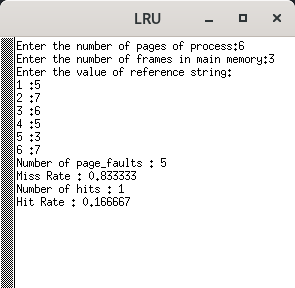
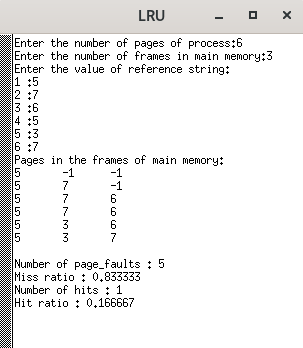
LRU

Changed region(s): [[0.0, 0.0, 1.0, 1.0], [0.4881, 0.7188, 0.5492, 0.7812], [0.2746, 0.25, 0.3661, 0.2812]]

diff --git a/LRU_page_replacement_algorithm/LRU.c b/LRU_page_replacement_algorithm/LRU.c
@@ -76,9 +76,9 @@ int main()
   printf("Pages in the frames of main memory:\n");
   int page_faults=LRU(pages,n_pages,n_frames);
   printf("\nNumber of page_faults : %d",page_faults);
-  float missrate=(float)page_faults/n_pages;
-  printf("\nMiss Rate : %f",missrate);
+  float missratio=(float)page_faults/n_pages;
+  printf("\nMiss ratio : %f",missratio);
   printf("\nNumber of hits : %d",n_pages-page_faults);
-  printf("\nHit Rate : %f\n",1-missrate);
+  printf("\nHit ratio : %f\n",1-missratio);
   return 0;
 }

diff --git a/LRU_page_replacement_algorithm/LRU.cpp b/LRU_page_replacement_algorithm/LRU.cpp
@@ -60,8 +60,8 @@ int main()
   }
   int page_faults=LRU(pages,n_pages,n_frames);
   cout<<"Number of page_faults : "<<page_faults;
-  cout<<"\nMiss Rate : "<<(float)page_faults/n_pages;
+  cout<<"\nMiss ratio : "<<(float)page_faults/n_pages;
   cout<<"\nNumber of hits : "<<n_pages-page_faults;
-  cout<<"\nHit Rate : "<<1-((float)page_faults/n_pages);
+  cout<<"\nHit ratio : "<<1-((float)page_faults/n_pages);
   return 0;
 }
